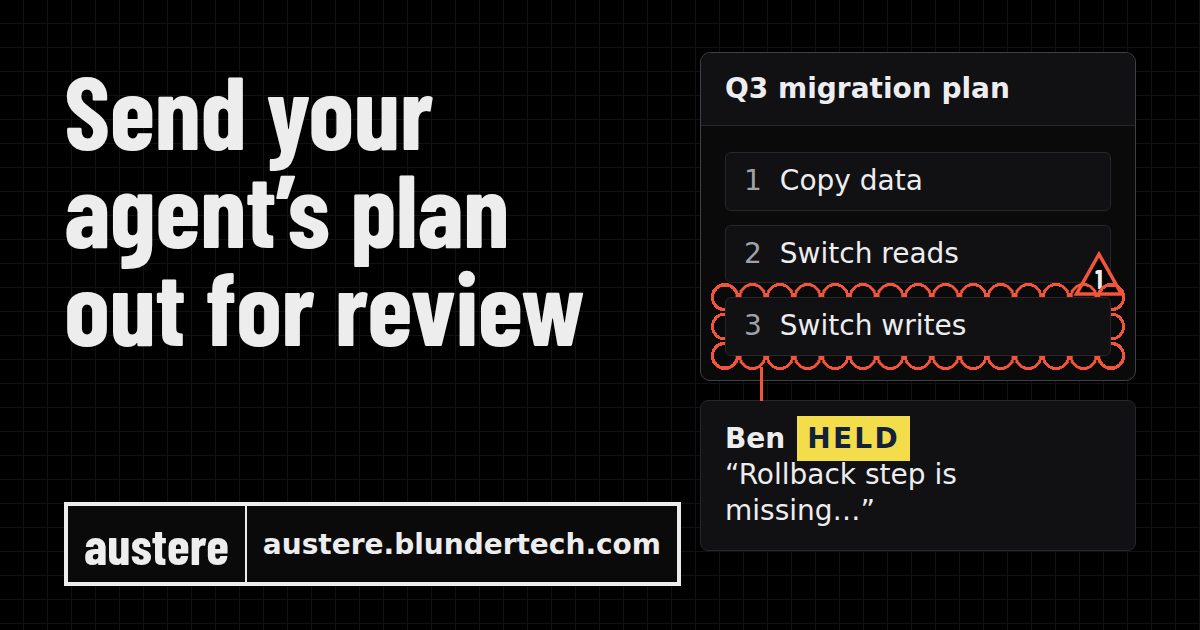
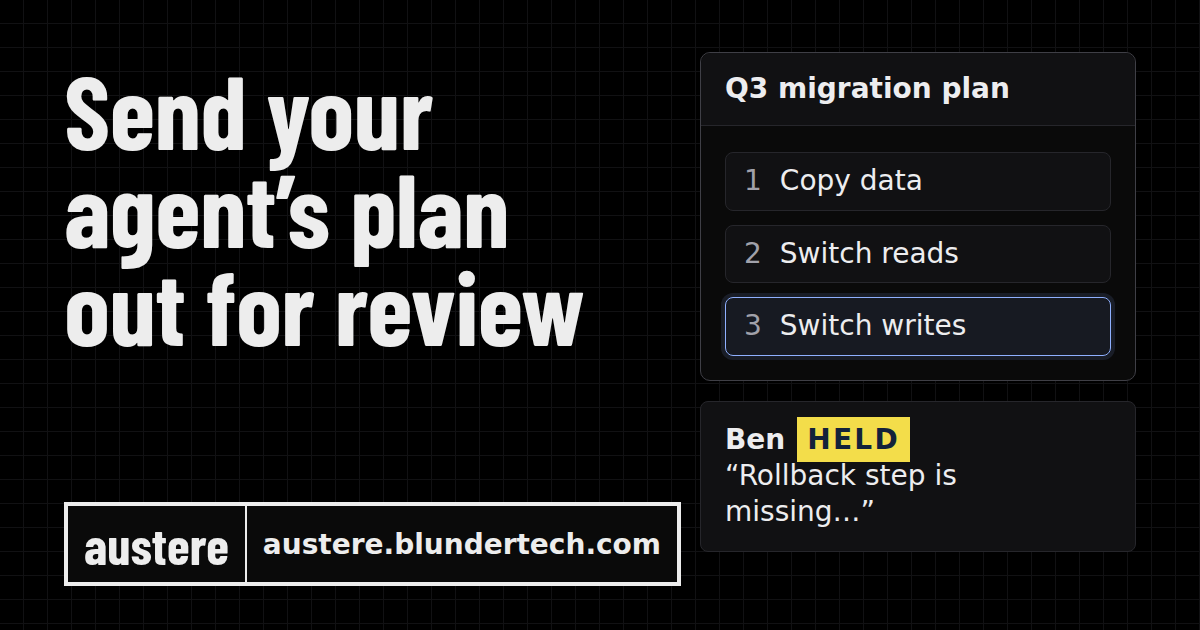
Fix PR review: app accent, orphan CSS, copy, JSON-LD, OG re-render (RLM-459)

Changed region(s): [[0.5858, 0.3921, 0.9558, 0.6032], [0.6167, 0.6635, 0.8017, 0.8444], [0.6783, 0.6333, 0.74, 0.6635]]

diff --git a/src/site.ts b/src/site.ts
@@ -4,7 +4,6 @@ import { otherTheme, type Theme } from "./theme";
 
 export const ORIGIN = "https://austere.blundertech.com";
 export const REPO = "https://github.com/MandalorianBatman/austere-axi";
-export const CLOUD_REPO = "https://github.com/MandalorianBatman/austere-cloud";
 export const DOCS = `${REPO}/blob/main/docs`;
 export const INSTALL_GUIDE = `${DOCS}/install.md`;
 export const HOSTED_PAGES = `${DOCS}/hosted-pages.md`;
@@ -83,7 +82,7 @@ function nav(signIn: string | null, theme: Theme, path: string): string {
 <a class="logo" href="/" aria-label="austere cloud, home">austere<small>cloud</small></a>
 <nav aria-label="Main"><ul>
 <li><a href="/#how">How It Works</a></li>
-<li><a href="/#pricing">Pricing</a></li>
+<li class="nav-pricing"><a href="/#pricing">Pricing</a></li>
 <li><a href="/security">Security</a></li>
 <li><a href="${INSTALL_GUIDE}">Docs</a></li>
 <li><a href="${REPO}">GitHub</a></li>
@@ -177,7 +176,7 @@ const CSS = `
 --p-redline-600:#BF2E18;--p-redline-700:#9E2412;--p-redline-400:#F2553C;--p-redline-300:#FF6A4D;--p-marker-300:#F3DD4A;
 --p-prussian-900:#0D2741;--p-chalk-50:#EDF3F9;--p-chalk-200:#BFD0E2;
 --p-carbon-1000:#000000;--p-carbon-950:#0A0A0A;--p-carbon-900:#111113;--p-carbon-800:#222226;--p-carbon-700:#3F3F46;--p-carbon-500:#71717A;--p-carbon-400:#A1A1AA;--p-carbon-200:#D4D4D8;--p-carbon-50:#EDEDED;
---p-app-bg:#0A0A0A;--p-app-panel:#111113;--p-app-line:#26262B;--p-app-text:#EDEDEF;--p-app-muted:#A1A1AA;--p-app-accent:#3B82F6;
+--p-app-bg:#0A0A0A;--p-app-panel:#111113;--p-app-line:#26262B;--p-app-text:#EDEDEF;--p-app-muted:#A1A1AA;--p-app-accent:#8FB0FF;--p-app-accent-ink:#0D1220;
 
 --color-ground:var(--p-paper-50);--color-sheet:var(--p-paper-0);--color-panel:var(--p-paper-100);--color-grid:var(--p-grid-150);
 --color-line:var(--p-ink-900);--color-line-heavy:var(--p-ink-900);--color-line-control:var(--p-ink-900);
@@ -198,9 +197,9 @@ const CSS = `
 --space-1:4px;--space-2:8px;--space-3:12px;--space-4:16px;--space-5:24px;--space-6:32px;--space-7:48px;--space-8:64px;--space-9:96px;
 --section-y:clamp(72px,10vw,128px);--page-max:1200px;--gutter:clamp(16px,4vw,40px);--grid-minor:24px;
 --rule-hair:1px;--rule-ink:1.5px;--rule-heavy:3px;--radius-app:8px;--shadow-mock:0 24px 48px -24px rgb(19 34 58 / .35);
---ease-draw:cubic-bezier(.65,0,.35,1);--dur-ui:160ms;--dur-pop:240ms;--dur-draw:700ms;
+--ease-draw:cubic-bezier(.65,0,.35,1);--dur-ui:160ms;--dur-pop:240ms;
 --btn-h:48px;--btn-pad-x:24px;
---revcloud-r:10px;--revcloud-stroke:2px;--revcloud-color:var(--color-markup);--delta-size:30px;
+--delta-size:30px;
 --focus-ring:2px solid var(--color-markup);--focus-offset:3px}
 :root[data-theme="dark"]{color-scheme:dark;
 --color-ground:var(--p-carbon-1000);--color-sheet:var(--p-carbon-950);--color-panel:var(--p-carbon-900);--color-grid:var(--p-carbon-900);
@@ -243,6 +242,7 @@ h3{font-size:var(--text-h3);line-height:1.25;font-weight:650}
 .logo small{font:600 var(--text-label)/1 var(--font-body);letter-spacing:var(--tracking-label);text-transform:uppercase;color:var(--color-muted)}
 .nav nav{margin-left:auto}
 .nav ul{display:flex;gap:var(--space-5);flex-wrap:wrap}
+@media (max-width:639px){.nav-pricing{display:none}}
 .nav li a{display:inline-block;padding:var(--space-3) 0;font-size:var(--text-small);font-weight:600;text-decoration:none}
 .nav li a:hover{text-decoration:underline}
 .nav .btn{margin-left:0}
@@ -288,12 +288,11 @@ pre.out{background:var(--color-sheet);border:var(--rule-ink) solid var(--color-l
 .app-body{padding:var(--space-5) var(--space-5) var(--space-6);display:grid;gap:var(--space-4)}
 .app-body h3{font:600 1.125rem/1.3 var(--font-body)}
 .rows{display:grid;gap:var(--space-3)}
-.row{display:grid;grid-template-columns:1.5rem 1fr auto;gap:var(--space-3);align-items:center;padding:var(--space-3) var(--space-4);border:1px solid var(--p-app-line);background:var(--p-app-panel);border-radius:6px;transition:border-color .15s ease}
-.row.active{border-color:var(--p-app-accent);background:rgba(59,130,246,.08);box-shadow:0 0 0 1px var(--p-app-accent)}
+.row{display:grid;grid-template-columns:1.5rem 1fr auto;gap:var(--space-3);align-items:center;padding:var(--space-3) var(--space-4);border:1px solid var(--p-app-line);background:var(--p-app-panel);border-radius:8px;transition:border-color .15s ease}
+.row.active{border:1.5px solid var(--p-app-accent);background:rgba(143,176,255,.10);box-shadow:0 0 0 4px rgba(143,176,255,.12)}
 .row i{font-style:normal;color:var(--p-app-muted);font-variant-numeric:tabular-nums}
 .row span:last-child{color:var(--p-app-muted)}
-.rowwrap{position:relative}
-.delta{position:absolute;right:-14px;top:-32px;width:var(--delta-size);height:var(--delta-size);color:var(--color-markup);z-index:2}
+.delta{position:static;flex:none;width:var(--delta-size);height:var(--delta-size);color:var(--color-markup)}
 .delta svg{display:block;width:100%;height:100%;overflow:visible}
 .delta text{font:700 20px/1 var(--font-display);font-stretch:75%;fill:var(--p-app-text)}
 .notes{display:grid;gap:var(--space-3)}
@@ -307,7 +306,7 @@ pre.out{background:var(--color-sheet);border:var(--rule-ink) solid var(--color-l
 .tag.sent{color:var(--p-app-muted);padding:4px 0}
 .acts{display:flex;gap:var(--space-2)}
 .acts span{font-size:.75rem;font-weight:600;padding:5px 12px;border-radius:4px;border:1px solid var(--p-app-line)}
-.acts span:first-child{background:var(--p-app-accent);border-color:var(--p-app-accent);color:#fff}
+.acts span:first-child{background:var(--p-app-accent);border-color:var(--p-app-accent);color:var(--p-app-accent-ink)}
 
 /* title block (the issue register and the footer) */
 .tb{display:grid;border:var(--rule-heavy) solid var(--color-line-heavy);background:var(--color-sheet)}
@@ -346,7 +345,6 @@ pre.out{background:var(--color-sheet);border:var(--rule-ink) solid var(--color-l
 .outcome:first-of-type{border-top:var(--rule-ink) solid var(--color-line)}
 .out-copy{display:grid;gap:var(--space-3);align-content:start;max-width:var(--measure)}
 .out-copy h3{display:flex;gap:var(--space-3);align-items:center}
-.out-copy .delta{position:static;flex:none}
 .out-copy .delta text{fill:var(--color-ink)}
 .out-art{display:grid;gap:var(--space-3);align-content:start;min-width:0}
 @media (min-width:900px){.outcome{grid-template-columns:5fr 6fr;gap:var(--space-8)}}
@@ -357,7 +355,7 @@ pre.out{background:var(--color-sheet);border:var(--rule-ink) solid var(--color-l
 .feat li span{color:var(--color-ink-2);font-size:var(--text-small);line-height:1.55}
 @media (min-width:768px){.feat{grid-template-columns:repeat(2,1fr)}}
 @media (min-width:1100px){.feat{grid-template-columns:repeat(4,1fr)}}
-.rc-pad{padding:calc(var(--revcloud-r) * 2) var(--revcloud-r)}
+.rc-pad{padding:20px 10px}
 
 /* start */
 .steps{display:grid;gap:var(--space-6);counter-reset:s;max-width:60rem}
@@ -434,9 +432,7 @@ pre.out{background:var(--color-sheet);border:var(--rule-ink) solid var(--color-l
 .hero-sheet .note.new{animation:rise 300ms var(--ease-draw) .6s backwards}
 .hero-sheet .tag.held{animation:stamp var(--dur-ui) var(--ease-draw) .8s backwards}
 }
-@keyframes draw{from{clip-path:inset(-20px 100% -20px -20px)}to{clip-path:inset(-20px -20px -20px -20px)}}
 @keyframes pop{from{transform:scale(.98);opacity:.5}}
-@keyframes grow{from{transform:scaleY(0)}}
 @keyframes rise{from{transform:translateY(8px);opacity:0}}
 @keyframes stamp{from{transform:scale(1.15);opacity:0}}
 `;

diff --git a/src/landing.ts b/src/landing.ts
@@ -2,7 +2,7 @@
 // Static HTML and CSS only: the CSP allows no script and no fetch; the only asset is the same-origin favicon.
 
 import type { Theme } from "./theme";
-import { INSTALL_GUIDE, ORIGIN, CLOUD_REPO, REPO, cmd, document, pageHeaders, type Meta } from "./site";
+import { INSTALL_GUIDE, ORIGIN, REPO, cmd, document, pageHeaders, type Meta } from "./site";
 
 const TITLE = "Share AI coding agent plans for team review · austere";
 const DESCRIPTION =
@@ -27,7 +27,6 @@ export const LANDING_META: Meta = {
         applicationCategory: "DeveloperApplication",
         operatingSystem: "Any",
         softwareRequirements: "Node.js 22.18 or later",
-        license: "https://opensource.org/license/mit",
         sameAs: [REPO, "https://www.npmjs.com/package/austere-axi"],
       },
     ],
@@ -80,7 +79,7 @@ function body(signIn: string | null): string {
 <p class="lede">Your coding agent publishes its plan, design or report as a private page. Each reviewer gets a link with their name on it and leaves notes on the exact part they mean. You choose which notes reach the agent.</p>
 ${cmd("npm install -g austere-axi")}
 <div class="cta-row"><a class="btn primary" href="#start">Get started</a><a href="${INSTALL_GUIDE}">Read the install guide</a></div>
-<p class="facts">Works with Claude Code, Codex and Cursor · Open source CLI · Free for limited time</p>
+<p class="facts">Works with Claude Code, Codex and Cursor · Open source CLI · Cloud free for a limited time</p>
 </div>
 ${SHEET}
 </div>
@@ -173,7 +172,7 @@ Ben  ${ORIGIN}/p/k3v9qz#i=…</pre></div>
 <li>The service stores invite tokens, sessions and sign-in codes only as SHA-256 hashes</li>
 <li>A page stops being served 30 days after your last publish. <code>austere-axi publish rm</code> takes it down now</li>
 <li>The <code>austere-axi</code> CLI is open source under the MIT license</li>
-<li>austere cloud is a hosted offering, free for a limited time while we onboard early users</li>
+<li>austere cloud is a hosted offering, free for a limited time because we don’t have users yet</li>
 </ul>
 </div>
 </section>
@@ -181,7 +180,7 @@ Ben  ${ORIGIN}/p/k3v9qz#i=…</pre></div>
 <section class="sec rule-top" id="pricing" aria-labelledby="pricing-h">
 <div class="wrap split">
 <div><p class="label">Pricing</p><h2 id="pricing-h">Free for a limited time</h2></div>
-<p class="lede">austere cloud will be a paid service. It is completely free for a limited time because we don’t have users yet. The <code>austere-axi</code> CLI is and remains free and open source under the MIT license.</p>
+<p class="lede">austere cloud will be a paid service. It is completely free for a limited time because we don’t have users yet. The <code>austere-axi</code> CLI is free and open source under the MIT license.</p>
 </div>
 </section>
 
@@ -191,7 +190,7 @@ Ben  ${ORIGIN}/p/k3v9qz#i=…</pre></div>
 <div class="faq">
 <details><summary>Which agents does it work with?</summary><p>Claude Code, Codex and Cursor. Claude Desktop works through the MCP server. The install guide covers each one.</p></details>
 <details><summary>Do I need an account?</summary><p>Not for local review. To publish, you sign in once on each machine with <code>austere-axi cloud login</code>. Reviewers with an invite link don’t need an account.</p></details>
-<details><summary>How much does austere cloud cost?</summary><p>austere cloud will be a paid service, but it is free for a limited time because we don’t have users yet. The CLI (<code>austere-axi</code>) is and remains free and open source under MIT.</p></details>
+<details><summary>How much does austere cloud cost?</summary><p>austere cloud will be a paid service, but it is free for a limited time because we don’t have users yet. The CLI (<code>austere-axi</code>) is free and open source under MIT.</p></details>
 <details><summary>Is austere cloud open source?</summary><p>Only the CLI (<code>austere-axi</code>) is open source under the MIT license. The cloud service is a proprietary hosted offering.</p></details>
 <details><summary>Who can read a published page?</summary><p>You, the people you invite, and the email addresses you grant. A page published with <code>--unlisted</code> is the exception: anyone with its address can read it and leave notes.</p></details>
 <details><summary>How long does a page stay up?</summary><p>For 30 days after your last publish. Each publish starts the 30 days again. To take a page down now, run <code>austere-axi publish rm</code>.</p></details>

diff --git a/scripts/og/og.html b/scripts/og/og.html
@@ -11,9 +11,9 @@ h1{position:absolute;left:64px;top:60px;width:560px;font:700 104px/0.94 "Barlow 
 .app{position:relative;background:#0A0A0A;border:1px solid #3F3F46;border-radius:10px;color:#EDEDEF;font-size:28px;line-height:1.3;overflow:visible}
 .bar{background:#111113;border-bottom:1px solid #26262B;padding:18px 24px;font-weight:600;border-radius:10px 10px 0 0}
 .rows{padding:26px 24px 24px;display:grid;gap:14px}
-.row{display:flex;gap:18px;padding:10px 18px;border:1px solid #26262B;background:#111113;border-radius:6px;position:relative}
+.row{display:flex;gap:18px;padding:10px 18px;border:1px solid #26262B;background:#111113;border-radius:8px;position:relative}
 .row i{font-style:normal;color:#A1A1AA}
-.row.active{border-color:#3B82F6;background:rgba(59,130,246,0.12);box-shadow:0 0 0 2px rgba(59,130,246,0.3)}
+.row.active{border:1.5px solid #8FB0FF;background:rgba(143,176,255,.10);box-shadow:0 0 0 4px rgba(143,176,255,.12)}
 .note{background:#111113;border:1px solid #26262B;border-radius:8px;color:#EDEDEF;padding:20px 24px;font-size:28px;line-height:1.3;margin-top:20px}
 .tag{background:#F3DD4A;color:#13223A;font:700 28px/1 system-ui,"Liberation Sans",sans-serif;letter-spacing:.08em;padding:6px 10px;margin-left:12px;text-transform:uppercase}
 .tb{position:absolute;left:64px;bottom:44px;border:4px solid #EDEDED;background:#0A0A0A;display:flex}

diff --git a/DESIGN.md b/DESIGN.md
@@ -75,7 +75,7 @@ Retired: the cyanotype (Prussian blue) dark palette and its `prefers-color-schem
 - **Theme toggle `.theme`:** a two-cell ruled segment, "Dark | Light", 40 px (44 px below 640 px). The current cell is filled with `--color-action`; the other is muted and takes a panel fill on hover. Border is `--color-line-control`.
 - **Buttons:** 48 px, square. Primary = solid ink; ghost = 1.5 px ink border. Hover changes background only. Red is never a fill.
 - **Command block `cmd()`:** sheet fill, 1.5 px ink border, mono. The prompt (`$`, `›`) is `user-select:none`; the command is `user-select:all`. Scrolls horizontally instead of wrapping, so 375 px never breaks `austere-axi` at the hyphen.
-- **Active target `.row.active`:** uses the app's accent outline and background tint, matching the review experience in austere-axi.
+- **Active target `.row.active`:** the app's pick outline from austere-axi `austere.css` (`.austere-hover`, locked): 1.5 px `#8FB0FF`, fill `rgba(143,176,255,.10)`, 4 px halo `rgba(143,176,255,.12)`, radius 8 px. No cloud, no glow. Send uses `--p-app-accent-ink` (#0D1220) on the accent.
 - **Delta mark `.delta`:** inline SVG triangle, 2 px stroke in markup red, number in display type. Numbers the three outcomes.
 - **Sample sheet:** product mock inside a ruled sheet with `role="img"` and an `aria-label`; contents are `aria-hidden`. Register table below it (ISSUED TO, LINK, STATUS), LINK column hidden under 640 px. `Revoked` is red with a 2 px strikethrough.
 - **HELD tag:** label type on `--color-held`. SENT is plain muted text. State is never color alone.

diff --git a/README.md b/README.md
@@ -56,4 +56,4 @@ Then open `ws://localhost:8787/api/pages/$ID/sync?cli=0.9.0` with the subprotoco
 
 ## License
 
-Proprietary. All rights reserved. (The CLI `austere-axi` is open source under MIT).
+MIT
